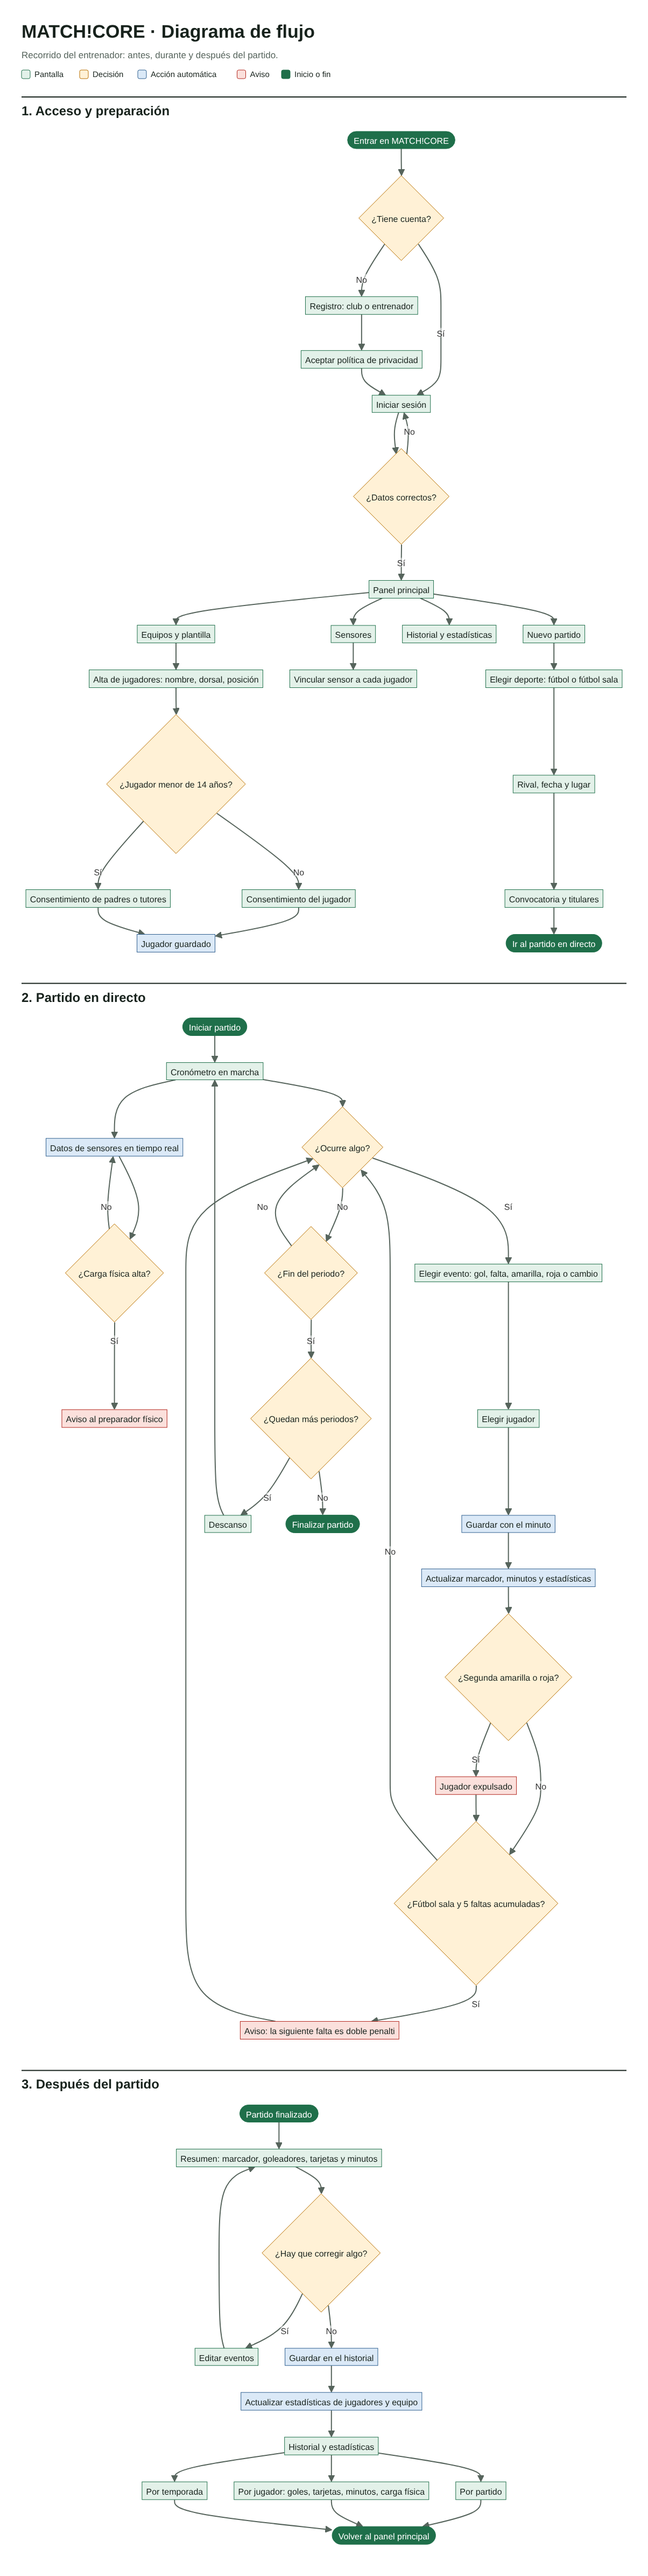
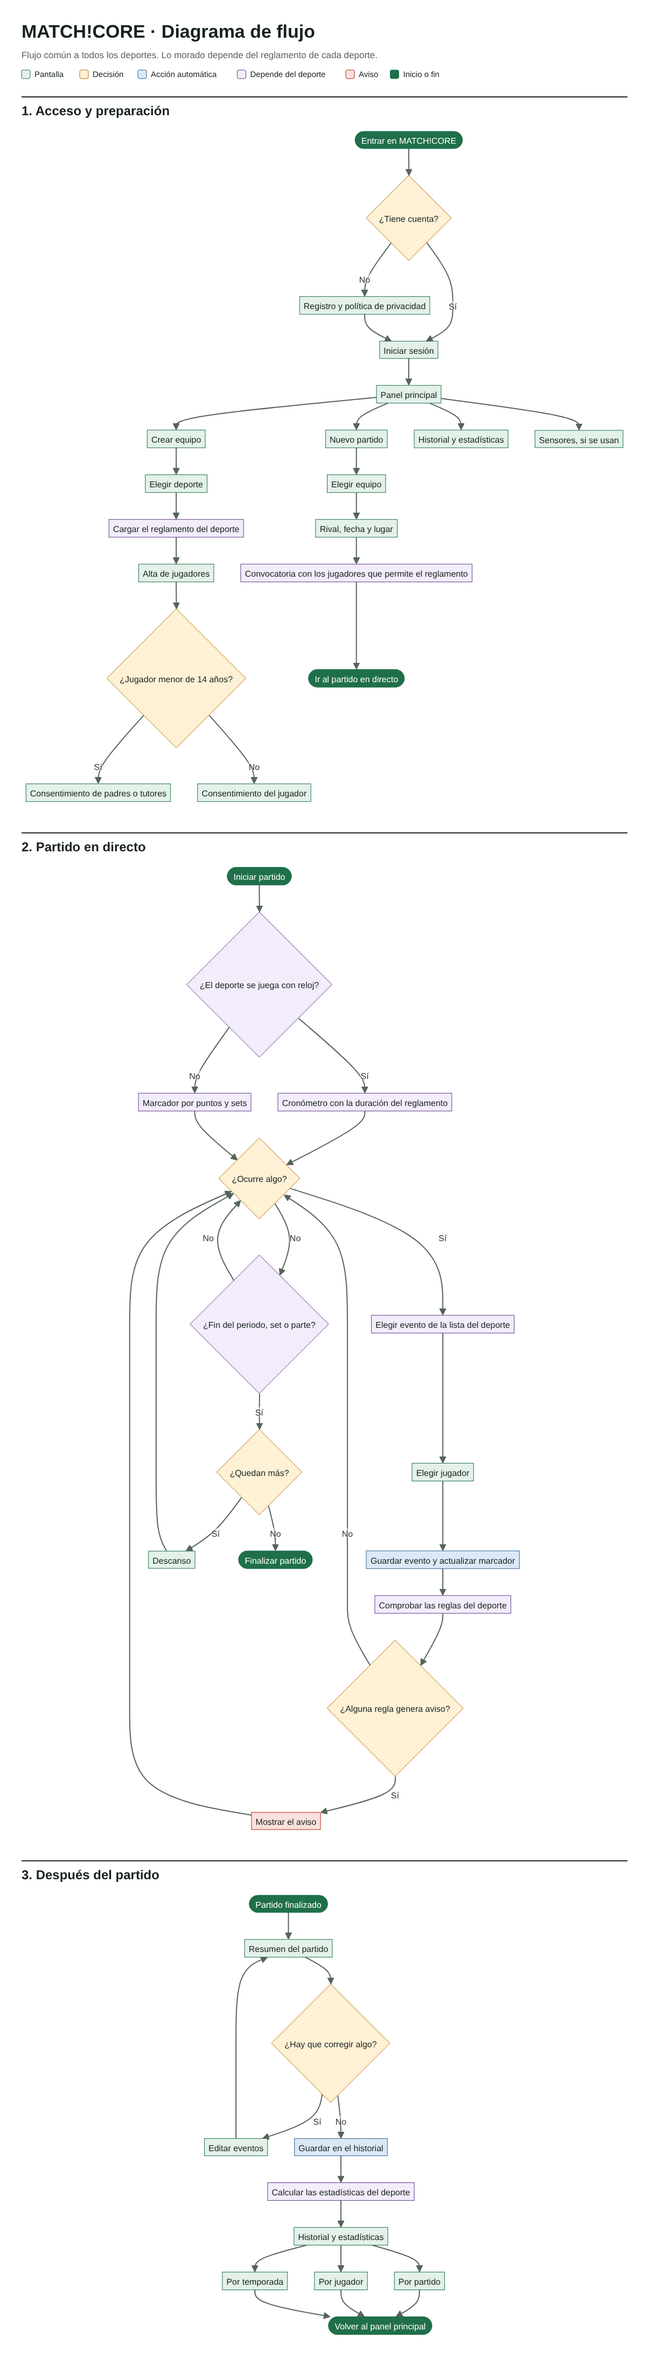
Diagrama de flujo: flujo común y reglamento por deporte
El flujo ya no mezcla reglas de fútbol y fútbol sala: es el mismo para
todos los deportes y lo que cambia (tiempo, eventos, cambios y avisos)
lo aporta el reglamento de cada deporte. Se añade la tabla con fútbol,
fútbol sala, baloncesto, balonmano y voleibol.

Claude-Session: https://claude.ai/code/session_01HLFiNkb4XaXJNBvUEQZV9v

diff --git a/diagramas/README.md b/diagramas/README.md
@@ -1,46 +1,42 @@
 # Diagrama de flujo de MATCH!CORE
 
-Recorrido del entrenador por la aplicación: antes, durante y después del partido.
+El flujo es el mismo para todos los deportes. Lo que cambia de uno a otro (tiempo, eventos, cambios y avisos) lo pone el **reglamento de cada deporte**.
 
 También está como imagen: [SVG](MATCHCORE_diagrama_flujo.svg) · [PNG](MATCHCORE_diagrama_flujo.png).
 
-**Colores:** verde claro = pantalla · amarillo = decisión · azul = acción automática · rojo = aviso · verde oscuro = inicio o fin.
+**Colores:** verde claro = pantalla · amarillo = decisión · azul = acción automática · morado = depende del deporte · rojo = aviso · verde oscuro = inicio o fin.
 
 ## 1. Acceso y preparación
 
 ```mermaid
 flowchart TD
   A([Entrar en MATCH!CORE]) --> B{¿Tiene cuenta?}
-  B -- No --> C[Registro: club o entrenador]
-  C --> C2[Aceptar política de privacidad]
-  C2 --> D
+  B -- No --> C[Registro y política de privacidad]
+  C --> D
   B -- Sí --> D[Iniciar sesión]
-  D --> E{¿Datos correctos?}
-  E -- No --> D
-  E -- Sí --> F[Panel principal]
-  F --> G[Equipos y plantilla]
+  D --> F[Panel principal]
+  F --> G[Crear equipo]
   F --> H[Nuevo partido]
   F --> I[Historial y estadísticas]
-  F --> J[Sensores]
-  G --> G1[Alta de jugadores: nombre, dorsal, posición]
-  G1 --> G2{¿Jugador menor de 14 años?}
-  G2 -- Sí --> G3[Consentimiento de padres o tutores]
-  G2 -- No --> G4[Consentimiento del jugador]
-  G3 --> G5[Jugador guardado]
-  G4 --> G5
-  J --> J1[Vincular sensor a cada jugador]
-  H --> H1[Elegir deporte: fútbol o fútbol sala]
+  F --> J[Sensores, si se usan]
+  G --> G1[Elegir deporte]
+  G1 --> G2[Cargar el reglamento del deporte]
+  G2 --> G3[Alta de jugadores]
+  G3 --> G4{¿Jugador menor de 14 años?}
+  G4 -- Sí --> G5[Consentimiento de padres o tutores]
+  G4 -- No --> G6[Consentimiento del jugador]
+  H --> H1[Elegir equipo]
   H1 --> H2[Rival, fecha y lugar]
-  H2 --> H3[Convocatoria y titulares]
+  H2 --> H3[Convocatoria con los jugadores que permite el reglamento]
   H3 --> K([Ir al partido en directo])
 
   classDef screen fill:#e3f1e9,stroke:#1f6f4a,color:#17221c
   classDef decision fill:#fff1d6,stroke:#b86e00,color:#17221c
-  classDef auto fill:#dbe9f7,stroke:#2f5f8f,color:#17221c
+  classDef rule fill:#f3ecfb,stroke:#5b3a8c,color:#17221c
   classDef term fill:#1f6f4a,stroke:#1f6f4a,color:#ffffff
-  class C,C2,D,F,G,H,I,J,G1,G3,G4,J1,H1,H2,H3 screen
-  class B,E,G2 decision
-  class G5 auto
+  class C,D,F,G,H,I,J,G1,G3,G5,G6,H1,H2 screen
+  class B,G4 decision
+  class G2,H3 rule
   class A,K term
 ```
 
@@ -48,38 +44,36 @@ flowchart TD
 
 ```mermaid
 flowchart TD
-  A([Iniciar partido]) --> B[Cronómetro en marcha]
-  B --> S[Datos de sensores en tiempo real]
-  S --> S1{¿Carga física alta?}
-  S1 -- Sí --> S2[Aviso al preparador físico]
-  S1 -- No --> S
-  B --> C{¿Ocurre algo?}
-  C -- Sí --> D[Elegir evento: gol, falta, amarilla, roja o cambio]
-  D --> E[Elegir jugador]
-  E --> F[Guardar con el minuto]
-  F --> G[Actualizar marcador, minutos y estadísticas]
-  G --> H{¿Segunda amarilla o roja?}
-  H -- Sí --> H1[Jugador expulsado]
-  H -- No --> I
-  H1 --> I{¿Fútbol sala y 5 faltas acumuladas?}
-  I -- Sí --> I1[Aviso: la siguiente falta es doble penalti]
-  I -- No --> C
-  I1 --> C
-  C -- No --> J{¿Fin del periodo?}
-  J -- No --> C
-  J -- Sí --> K{¿Quedan más periodos?}
-  K -- Sí --> L[Descanso] --> B
+  A([Iniciar partido]) --> B{¿El deporte se juega con reloj?}
+  B -- Sí --> C[Cronómetro con la duración del reglamento]
+  B -- No --> C2[Marcador por puntos y sets]
+  C --> D{¿Ocurre algo?}
+  C2 --> D
+  D -- Sí --> E[Elegir evento de la lista del deporte]
+  E --> E2[Elegir jugador]
+  E2 --> F[Guardar evento y actualizar marcador]
+  F --> G[Comprobar las reglas del deporte]
+  G --> H{¿Alguna regla genera aviso?}
+  H -- Sí --> H1[Mostrar el aviso]
+  H -- No --> D
+  H1 --> D
+  D -- No --> J{¿Fin del periodo, set o parte?}
+  J -- No --> D
+  J -- Sí --> K{¿Quedan más?}
+  K -- Sí --> L[Descanso] --> D
   K -- No --> M([Finalizar partido])
 
   classDef screen fill:#e3f1e9,stroke:#1f6f4a,color:#17221c
   classDef decision fill:#fff1d6,stroke:#b86e00,color:#17221c
   classDef auto fill:#dbe9f7,stroke:#2f5f8f,color:#17221c
+  classDef rule fill:#f3ecfb,stroke:#5b3a8c,color:#17221c
   classDef warn fill:#fbe0dc,stroke:#b3261e,color:#17221c
   classDef term fill:#1f6f4a,stroke:#1f6f4a,color:#ffffff
-  class B,D,E,L screen
-  class C,H,I,J,K,S1 decision
-  class F,G,S auto
-  class H1,I1,S2 warn
+  class E2,L screen
+  class D,H,K decision
+  class F auto
+  class B,C,C2,E,G,J rule
+  class H1 warn
   class A,M term
 ```
 
@@ -87,14 +81,14 @@ flowchart TD
 
 ```mermaid
 flowchart TD
-  A([Partido finalizado]) --> B[Resumen: marcador, goleadores, tarjetas y minutos]
+  A([Partido finalizado]) --> B[Resumen del partido]
   B --> C{¿Hay que corregir algo?}
   C -- Sí --> D[Editar eventos] --> B
   C -- No --> E[Guardar en el historial]
-  E --> F[Actualizar estadísticas de jugadores y equipo]
+  E --> F[Calcular las estadísticas del deporte]
   F --> G[Historial y estadísticas]
   G --> G1[Por partido]
-  G --> G2[Por jugador: goles, tarjetas, minutos, carga física]
+  G --> G2[Por jugador]
   G --> G3[Por temporada]
   G1 --> H([Volver al panel principal])
   G2 --> H
@@ -103,9 +97,23 @@ flowchart TD
   classDef screen fill:#e3f1e9,stroke:#1f6f4a,color:#17221c
   classDef decision fill:#fff1d6,stroke:#b86e00,color:#17221c
   classDef auto fill:#dbe9f7,stroke:#2f5f8f,color:#17221c
+  classDef rule fill:#f3ecfb,stroke:#5b3a8c,color:#17221c
   classDef term fill:#1f6f4a,stroke:#1f6f4a,color:#ffffff
   class B,D,G,G1,G2,G3 screen
   class C decision
-  class E,F auto
+  class E auto
+  class F rule
   class A,H term
 ```
+
+## 4. Qué pone el reglamento de cada deporte
+
+| Deporte | Tiempo | Eventos | Cambios | Avisos |
+|---|---|---|---|---|
+| Fútbol | 2 partes de 45 min, reloj corrido | Gol, falta, tarjeta amarilla y roja, cambio | Limitados según la competición; quien sale no vuelve | Segunda amarilla: expulsión |
+| Fútbol sala | 2 partes de 20 min, reloj parado | Gol, falta, tarjeta, cambio, tiempo muerto | Ilimitados y volantes | 5 faltas acumuladas en la parte: desde la sexta, doble penalti |
+| Baloncesto | 4 cuartos de 10 min, reloj parado | Canasta de 1, 2 o 3 puntos, rebote, falta personal, técnica | Ilimitados | 5 faltas personales: jugador eliminado. Desde la 5.ª falta de equipo en el cuarto: tiros libres |
+| Balonmano | 2 partes de 30 min | Gol, exclusión de 2 min, tarjeta amarilla, roja y azul | Ilimitados | Cuenta atrás de la exclusión. Tercera exclusión: descalificación |
+| Voleibol | Sin reloj: sets a 25 puntos (el quinto a 15), gana quien llega a 3 sets | Punto, saque, bloqueo, cambio, tiempo muerto | Limitados por set, con rotación | Fin de set y de partido |
+
+Añadir otro deporte más adelante consiste en escribir su reglamento, sin tocar el flujo.
